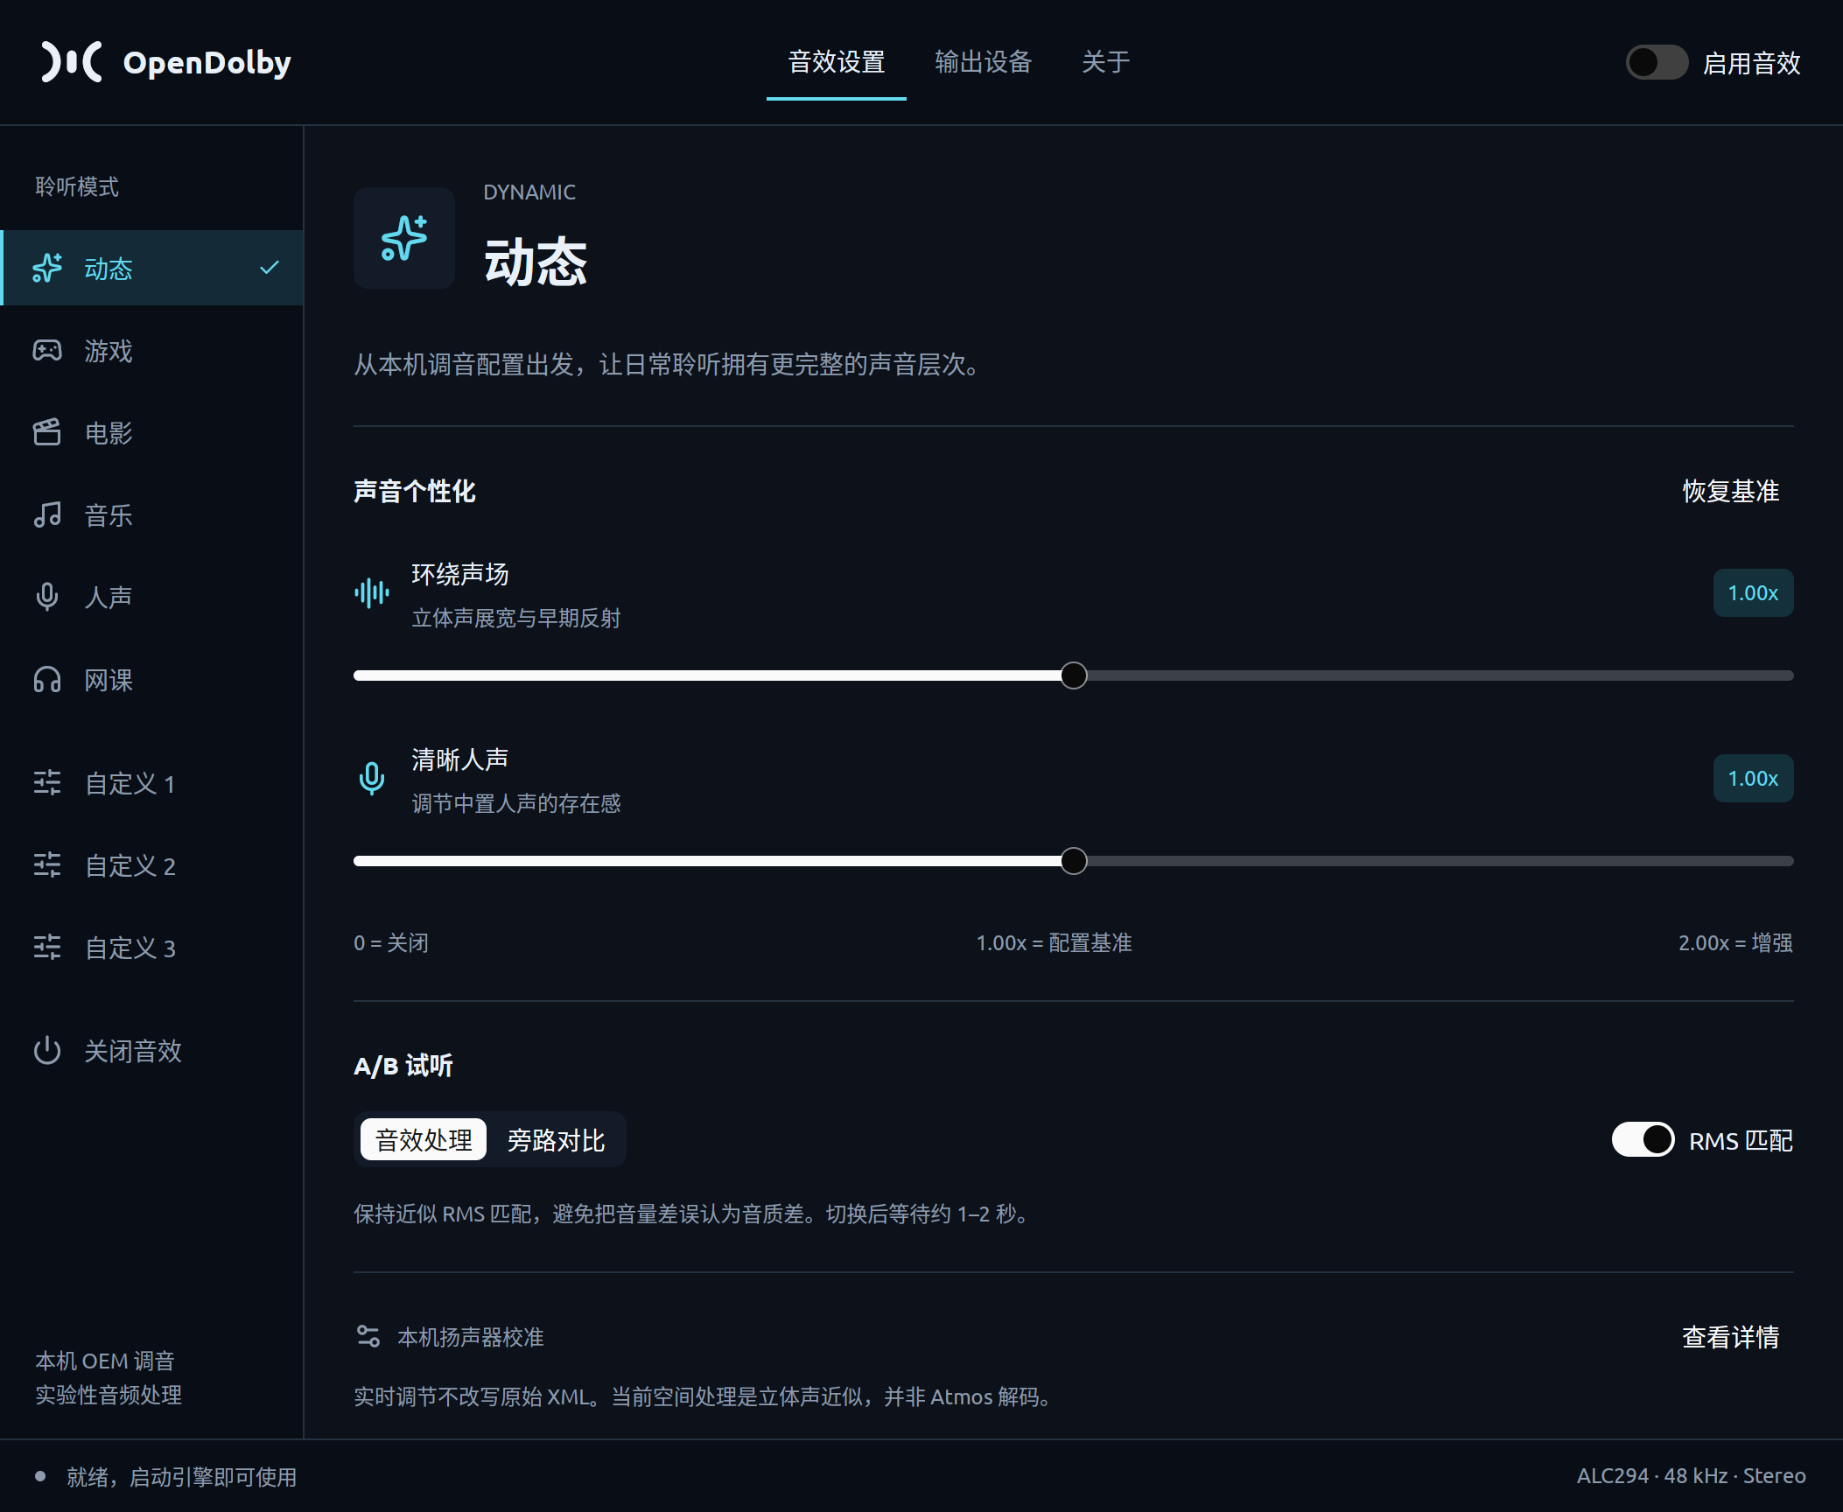
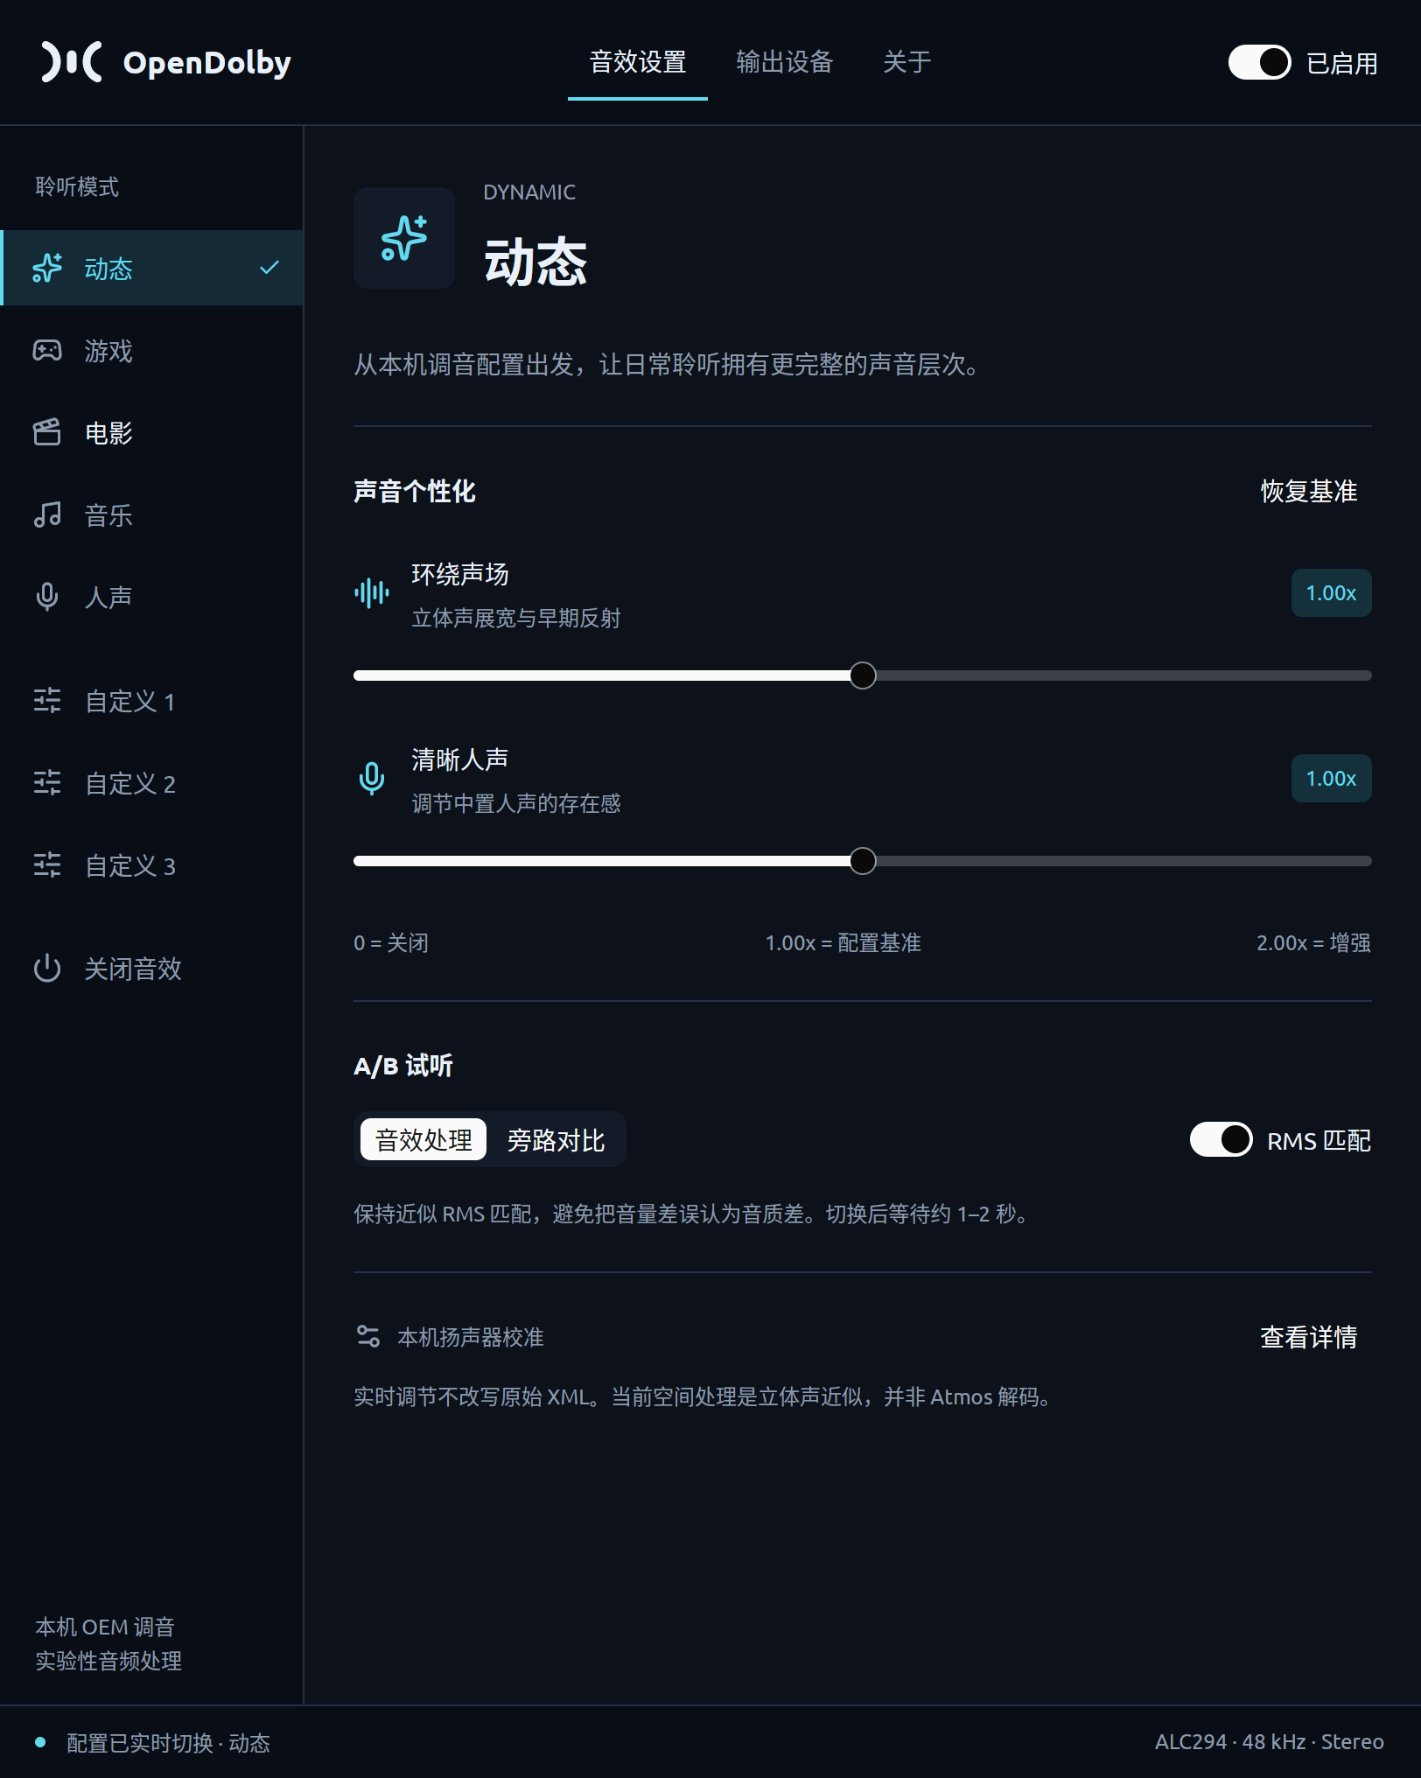
Validate six desktop lifecycle paths and refresh native panel screenshot

diff --git a/tools/smoke_gui_lifecycle.py b/tools/smoke_gui_lifecycle.py
@@ -28,6 +28,22 @@ def wait_for(check, label, timeout=10):
     raise AssertionError(f"Timed out: {label}")
 
 
+def close_panel(pid):
+    def window_id():
+        watcher = subprocess.Popen(["umbriel", "subscribe", "windows"], text=True,
+                                   stdout=subprocess.PIPE, stderr=subprocess.PIPE)
+        try:
+            if not select.select([watcher.stdout], [], [], 5)[0]:
+                raise AssertionError("No compositor window snapshot")
+            windows = json.loads(watcher.stdout.readline())["data"]
+            return next((w["id"] for w in windows if w.get("pid") == pid), None)
+        finally:
+            watcher.terminate()
+            watcher.communicate(timeout=5)
+
+    run("umbriel", "msg", "window-close", wait_for(window_id, "compositor panel"))
+
+
 def main():
     parser = argparse.ArgumentParser(description=__doc__)
     parser.add_argument("--confirm-route-test", action="store_true",
@@ -66,17 +82,7 @@ def main():
                  "virtual sink")
         run("pactl", "set-default-sink", "dolby_atmos_rust")
 
-        watcher = subprocess.Popen(["umbriel", "subscribe", "windows"], text=True,
-                                   stdout=subprocess.PIPE, stderr=subprocess.PIPE)
-        try:
-            if not select.select([watcher.stdout], [], [], 5)[0]:
-                raise AssertionError("No compositor window snapshot")
-            windows = json.loads(watcher.stdout.readline())["data"]
-        finally:
-            watcher.terminate()
-            watcher.communicate(timeout=5)
-        window = next(w for w in windows if w.get("pid") == pid)
-        run("umbriel", "msg", "window-close", window["id"])
+        close_panel(pid)
         closed = wait_for(lambda: (s if not (s := status()).get("window_open") else None),
                           "panel closure")
         assert closed["running"] and closed["pid"] == pid, "Closing must keep the engine alive"
@@ -98,6 +104,15 @@ def main():
                  "virtual sink removal")
         assert run("pactl", "get-default-sink") != "dolby_atmos_rust", "Stop did not restore hardware"
         report["explicit_stop_restores_hardware"] = True
+        close_panel(pid)
+        child.wait(timeout=10)
+        assert not status().get("pid"), "Closing a stopped panel must exit"
+        report["closing_stopped_panel_exits"] = True
+
+        child = subprocess.Popen([binary], stdout=log, stderr=log)
+        opened = wait_for(lambda: (s if (s := status()).get("window_open") else None),
+                          "fresh panel for explicit quit")
+        assert opened["pid"] == child.pid, "Fresh launch must own its process"
         run(binary, "--quit")
         child.wait(timeout=10)
         assert not status().get("pid"), "Quit left a background instance"

diff --git a/README.md b/README.md
@@ -130,7 +130,8 @@ python3 tools/smoke_pipewire.py
 python3 tools/smoke_gui_lifecycle.py --confirm-route-test
 ```
 
-- `cargo test --all-targets --locked`：19 项测试通过（含变长块大小、实时非法值处理、Off 精确直通与匹配 A/B）。
+- `cargo test --all-targets --locked`：19 项测试通过（含变长块大小、实时非法值处理、Off 精确直通、匹配 A/B、单实例并发与 socket 权限）。
+- **桌面生命周期回归**（`tools/smoke_gui_lifecycle.py`）：6 项实机检查通过，覆盖运行时关窗保留引擎及路由、重开复用进程和模式且不重复创建 Sink、主动停止恢复硬件输出、停止后关窗退出、显式退出，以及最终恢复原默认输出。
 - **离线匹配测量**（`tools/measure_dsp.py`，需 NumPy / SciPy）：8 秒 48 kHz 立体声带限噪声（约 `-29.12 dBFS`）。旧版 Dynamic 输出比输入高 `+17.05 dB RMS`；开启匹配并稳定后，Dynamic / Music / Movie 湿声与旁路差值均小于 `0.001 dB`（仅代表特定信号的电学测量，不代表任意音乐的感知等响度）。
 - **PipeWire 冒烟测试**（`tools/smoke_pipewire.py`）：在临时静音 null sink 捕获 `240000` 帧 48 kHz 立体声，单声道 RMS 约 `0.00360`，输出有限且 1–4 秒区间无 100 ms 静音块；默认硬件扬声器未受影响，未播放测试音。已安装的 PipeWire `1.6.11` 中 `pw-record` 在达到采样数上限时可能返回 `1`，测试脚本仅在错误日志为空且帧数精确匹配时放行并校验样本与路由。
 
